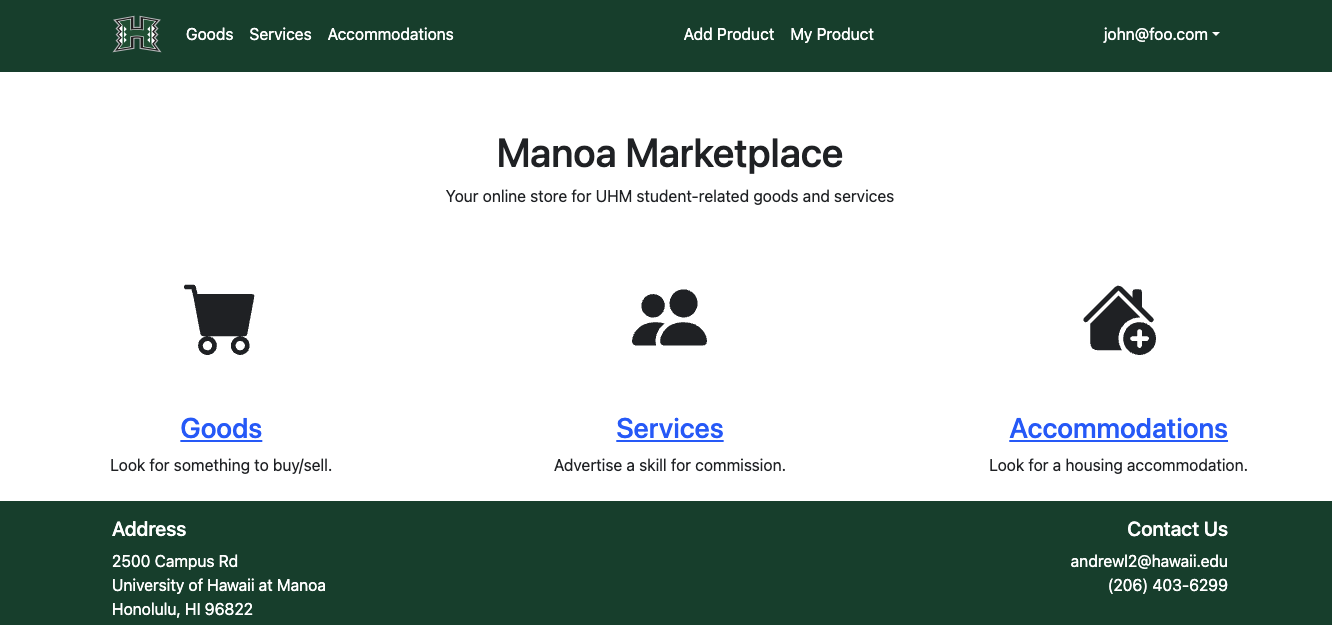
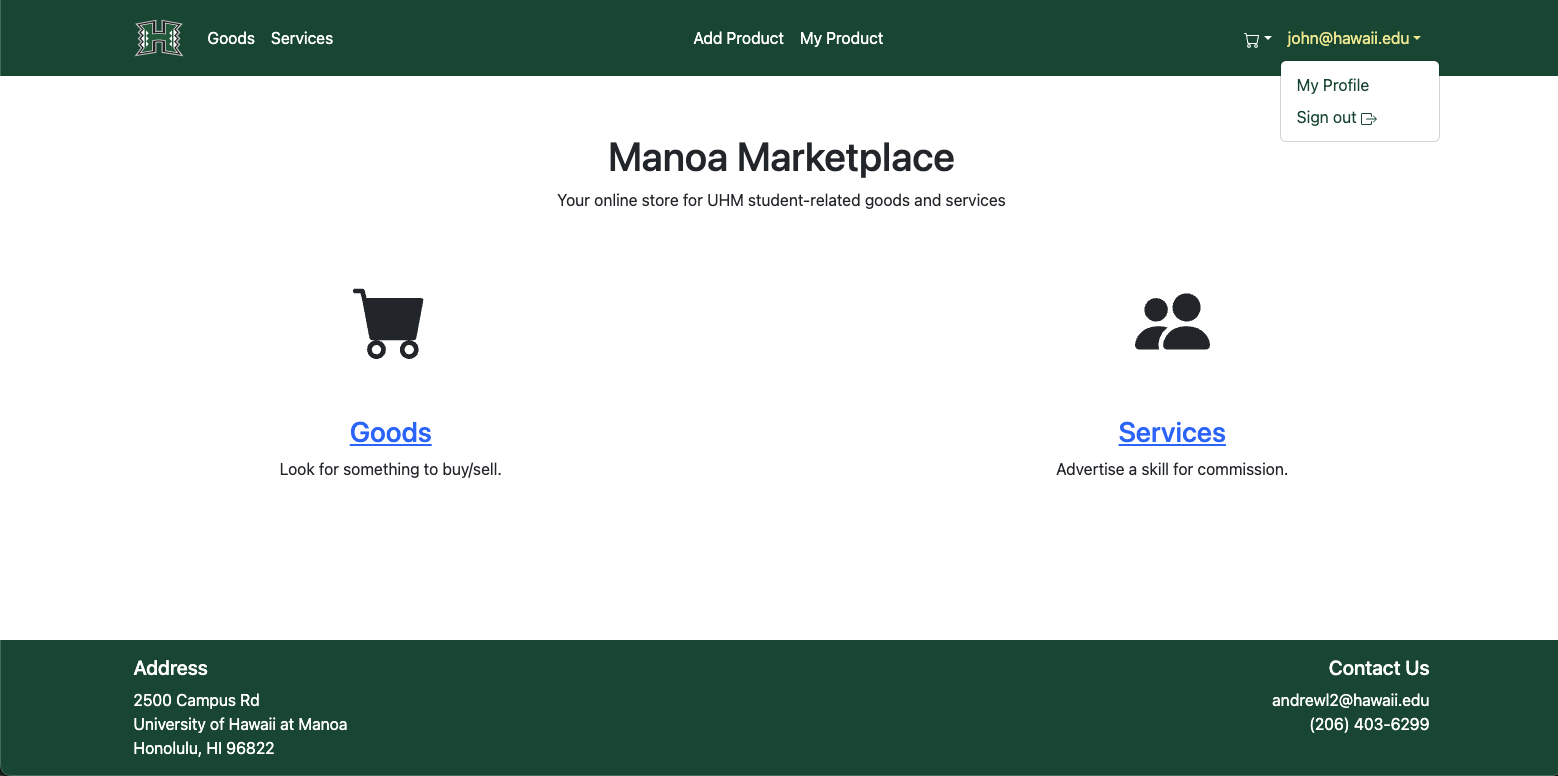
Update GitHub.io Page

diff --git a/index.md b/index.md
@@ -1,9 +1,9 @@
 # Manoa Marketplace
+
 _An online marketplace of all things you can buy/sell for the 'Bows!_
 
-
-
 ## Table of contents
+
 * [Overview](#overview)
 * [Deployment](#deployment)
 * [User Guide](#user-guide)
@@ -13,110 +13,131 @@ _An online marketplace of all things you can buy/sell for the 'Bows!_
 * [Contact Us](#contact-us)
 
 ## Overview
-Manoa Marketplace is a web application for UHM students to facilitate buying and selling of student-related goods and services.
+
+The problem: UHM students have a “rapid” churn rate in goods and services. Students leave the dorm for an on-campus apartment and need to get rid of dorm-specific stuff and acquire apartment-specific stuff. Students graduate and need to get rid of
+stuff because they’re moving off-island. There is therefore a tremendous amount of “campus-specific” goods and services that could be more effectively recycled and reused if there was an effective marketplace for these specific kinds of items.
+
+The solution: The Manoa Marketplace is an application for UHM students to facilitate buying and selling of student-related goods and services.
 
 ### Approach
+
 * Buyers and sellers must be UH students, faculty, or staff
 * There is no anonymity: buyers and sellers connect through their UH credentials
 * Transactions are expected to occur on campus. If a seller wants to meet off-campus, that can be a red flag
 * Because buyers and sellers are from UHM, the goods and services will be relevant to UH students
 
 ### Implementation
+
 Manoa Marketplace is designed with the following technologies:
+
 * [Meteor](https://www.meteor.com/) for Javascript-based implementation of client and server code
 * [Bootstrap 5 React](https://react-bootstrap.github.io/) for user interface
 * [Uniforms](https://uniforms.tools/) for form development
 
-
 ## Deployment
+
 See the Manoa Marketplace in deployment through Digital Ocean at https://manoa-marketplace.shop
 
 [![ci-meteor-application-template-react](https://github.com/ics-software-engineering/meteor-application-template-react/actions/workflows/ci.yml/badge.svg)](https://github.com/ics-software-engineering/meteor-application-template-react/actions/workflows/ci.yml)
 
-
 ## User Guide
+
 This section provides a walkthrough of the Manoa Marketplace user interface and its capabilities.
 
 ### Landing Page
-The landing page is presented to students when they visit the top-level URL of the site.
+
+The landing page is presented to students when they visit the top-level URL of the site. It provides a brief description of the application, and directs students to sign up or log in.
 
 <img src="doc/landing-page.png" alt="">
 
 ### Sign Up Page
-The sign up page will direct students to register using their @hawaii.edu email.
+
+The sign up page will direct students to register using their @hawaii.edu email and fill in some basic user information.
 
 <img src="doc/sign-up-page.png" alt="">
 
-
 ### Log In Page
+
 The log in page will direct students to log in using the registered @hawaii.edu account.
 
-<img src="doc/mock-login-page.png" alt="">
+<img src="doc/login-page.png" alt="">
 
 ### Home Page
-After logging in, the student will be directed to their home page. More features of the app are now displayed for the student to begin browsing listings.
+
+After logging in, the student will be directed to their home page. More features of the app are now displayed for the student in the navbar section.
 
 <img src="doc/home-page.png" alt="">
 
+### My Profile Page
+
+The user is also able to go into their profile to see an overview of their user information, as well as some other statistics (WIP).
+
+### Edit Profile Page
+
+The user is able to click the link to bring up a form to edit their profile information.
+
 ### Add Product Page
-Students have the ability to add a product for sale.
+
+Students have the ability to add a product for sale. Once added, the product will be listed on the List Product Page for their own perusal.
 
 <img src="doc/add-product-page.png" alt="">
 
-### List Product Page
-Students can list out all the products that they own.
+### My Products Page
 
-<img src="doc/list-product-page.png" alt="">
+Students can list out all the products that they own, edit/delete the products.
 
-### Admin Page
-Logging in as an admin allows you to view all user's products.
+<img src="doc/my-products-page.png" alt="">
 
-<img src="doc/admin-page.png" alt="">
+### List Goods Page
 
-### Browse Listing (Mock)
-Once logged in, you can browse an accommodation listing, and reach out to the owner of the listing
+This page displays all (excluding the user's) public goods that are available for sale. The user can click on the button to add to cart for checkout later.
 
-<img src="doc/mock-sublet-listing.png" alt="">
+<img src="doc/list-goods-page.png" alt="">
 
+### My Cart Page
 
-Under Goods, you can add a product to the cart to check out, which will automatically contact the lister that you are interested in buying the product.
+After adding a product to the cart, the user can view all the products that they have added to the cart. The user can also remove the product from the cart, or view the individual product page (WIP).
 
-<img src="doc/mock-wallet-listing.png" alt="">
-
+<img src="doc/my-cart-page.png" alt="">
 
 ## Community Feedback
-We are eager to know how you liked the Manoa Marketplace! After experiencing the application, please take a couple of minutes to fill out the [Manoa Marketplace Feedback Form](https://forms.gle/4wUn5QGKwvkbddfY6). It will greatly help us understand how our system is, improve 
+
+We are eager to know how you liked the Manoa Marketplace! After experiencing the application, please take a couple of minutes to fill out the [Manoa Marketplace Feedback Form](https://forms.gle/4wUn5QGKwvkbddfY6). It will greatly help us understand
+how our system is, improve
 existing features, or implement new ones. Mahalo!
 
-
 ## Developer Guide
+
 This section provides information of interest to Meteor developers wishing to use this application for their own development tasks.
 
 ### Installation
+
 1. [install Meteor](https://www.meteor.com/install)
-2. Visit the [Manoa Marketplace GitHub page](https://github.com/manoa-market-place/manoa-market-place), and click the "Use this template" button to create your own repository with initialized with a copy of this application. Alternatively, you 
+2. Visit the [Manoa Marketplace GitHub page](https://github.com/manoa-market-place/manoa-market-place), and click the "Use this template" button to create your own repository with initialized with a copy of this application. Alternatively, you
    can download the source code as a zip file or make a fork of the repo. However you do it, download a copy of the repo to your local computer.
 3. cd into the manoa-market-place/app directory and install libraries with:
-   4. ```
-      $ meteor npm install
-      ```
+    1. ```
+       $ meteor npm install
+       ```
 4. Run the system with:
-   5. ```
-      $ meteor npm run start
-      ```
+    1. ```
+       $ meteor npm run start
+       ```
 5. If all goes well, you can view your application at [http://localhost:3000](http://localhost:3000)
 6. You can login using the credentials in [settings.development.json](), or else register a new account.
 
 ### ESLint
+
 YOu can verify that the code obeys our coding standards by running ESLint over the code in the imports/ directory with:
+
 ```
 $ meteor npm run lint
 ```
 
-
 ## Development History
 
 The development process for Manoa Marketplace conformed to [Issue Driven Project Management (IDPM)](https://courses.ics.hawaii.edu/ics314f23/morea/project-management/reading-guidelines-idpm.html) agile software process. Bottom line up front (BLUF):
+
 * Process was managed using milestones that provide "deliverables" every 7-14 days.
 * Within each milestone contains a series of tasks as GitHub Issues taking ideally 2~3 days to accomplish
 * The work performed on each issue is in its own branch named "issue-XX", where XX is the issue number, and merged back into the main branch after its completion
@@ -125,34 +146,39 @@ The development process for Manoa Marketplace conformed to [Issue Driven Project
 The following sections document the development history of the Manoa Marketplace.
 
 ### Milestone 1: Mockup Development
-The goal of Milestone 1 (M1) was to set up the team, create initial issues, and deploy the initial application system to Digital Ocean with a landing page and at least four other mockup pages. 
+
+The goal of Milestone 1 (M1) was to set up the team, create initial issues, and deploy the initial application system to Digital Ocean with a landing page and at least four other mockup pages.
 
 M1 was managed using [Manoa Marketplace GitHub Project Board M1](https://github.com/orgs/manoa-market-place/projects/4):
 
 ### Milestone 2: Full Development
+
 The goal of Milestone 2 (M2) was to continue managing the project and implement the core functionalities of the application.
 
 M2 was managed using [Manoa Marketplace GitHub Project Board M2](https://github.com/orgs/manoa-market-place/projects/2):
 
 ### Milestone 3: Final Touches
+
 The goal of Milestone 3 (M3) was to finish the project, acquire community feedback, and implement acceptance testing.
 
 M3 was managed using [Manoa Marketplace GitHub Project Board M3](https://github.com/orgs/manoa-market-place/projects/3):
 
 ### Beyond the basics
+
 The following contains yet-to-be-implemented ideas for more advanced features of the Manoa Marketplace:
+
 * A rating system for buyers and sellers
 * Map-based interface to indicate where goods are
 
 ### Links
+
 * The [Manoa Marketplace GitHub organization](https://github.com/manoa-market-place)
-  * [Home Page Repository](https://github.com/manoa-market-place/manoa-market-place.github.io)
-  * [Project Template Repository](https://github.com/manoa-market-place/manoa-market-place)
+    * [Home Page Repository](https://github.com/manoa-market-place/manoa-market-place.github.io)
+    * [Project Template Repository](https://github.com/manoa-market-place/manoa-market-place)
 * The Devs' [Team Contract](https://docs.google.com/document/d/1OdRn9MrF8nA7VsuvTfltd_V8z3SGdCiK7xZjGK6fZQo/edit?usp=sharing)
 
-
-
 ## Contact Us
+
 Manoa Marketplace is designed, implemented, and maintained by the following developers:
 
 * [Andrew Lin]()
